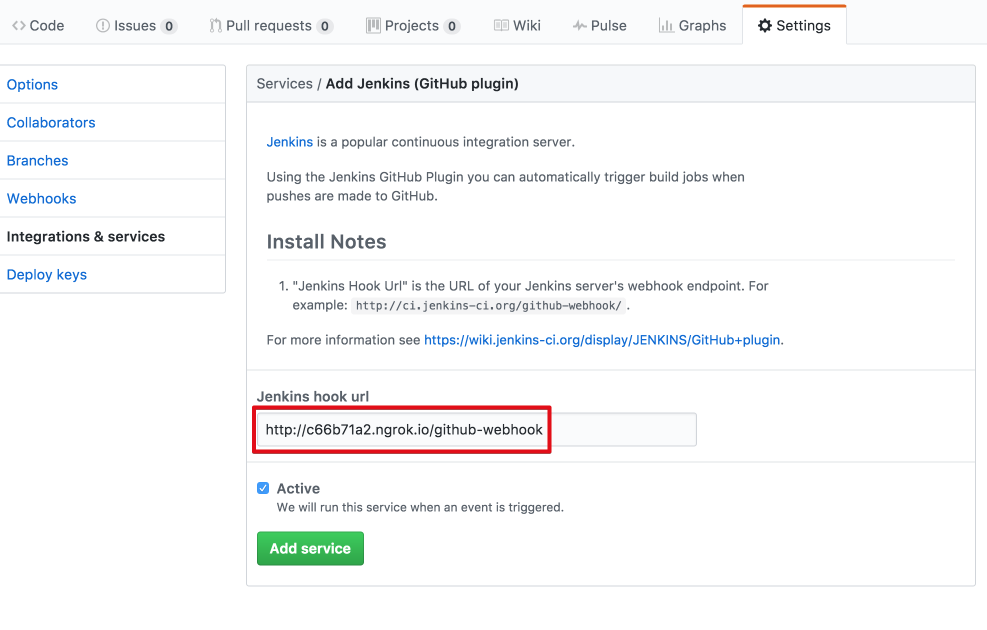
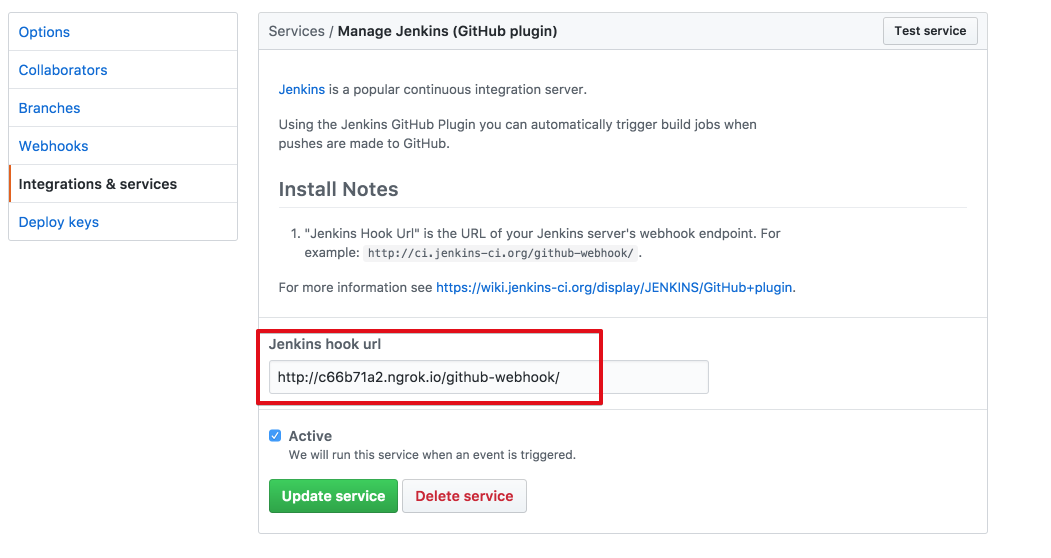
스프링부트 배포 시작

diff --git a/README.md b/README.md
@@ -85,25 +85,7 @@ docker ps -a
 (혹시나 젠킨스 컨테이너를 다시 시작해야 한다면 ```docker start jenkins```로 설치된 젠킨스 컨테이너를 실행 후, ```docker exec -it jenkins /bin/bash``` 를 입력하시면 됩니다.)  
 (```docker run```은 재설치를 합니다.)  
   
-젠킨스 메인페이지에서 ```Jenkins 관리``` -> ```시스템 설정```으로 이동합니다.  
-
-![젠킨스_시스템설정](./images/젠킨스_시스템설정.png)
-
-시스템 설정 페이지에서 아래로 내려와 보시면 ```Github```항목이 보이실텐데요, 거기서 ```Add Github Server```를 클릭합니다.  
-
-![젠킨스 깃헙서버추가](./images/젠킨스_깃헙서버추가.png)  
-
-바로 ```Credentials``` 우측에 있는 ```Add``` 버튼 클릭 -> ```Jenkins```를 클릭합니다.  
-
-![젠킨스 인증추가](./images/젠킨스_깃헙서버_인증.png)
-
-
-
-![젠킨스 키 등록](./images/젠킨스_키등록.png)
-
-
-
-젠킨스 페이지에서 ```새로운 Item```을 클릭합니다.  
+젠킨스 메인페이지에서 ```새로운 Item```을 클릭합니다.  
 
 ![새로운 아이템](./images/젠킨스_새아이템.png)
 
@@ -192,9 +174,10 @@ EXAMPLES에 나와있듯이, 현재 로컬에 열려있는 포트 중 외부에 
 
 ![깃허브 hook등록](./images/깃허브_웹훅등록.png)
 
-주의하셔야할 점은 본인의 **젠킨스 주소 뒤에** ```/github-webhook```을 추가해야하는 것입니다.  
+주의하셔야할 점은 본인의 **젠킨스 주소 뒤에** ```/github-webhook/```을 추가해야하는 것입니다.  
+(뒤에 ```/```를 잊으시면 작동이 안되시니 ```/```를 잊지마세요!)  
 깃허브가 푸시가 되면 해당 ```path```로 hook을 하기 때문입니다.   
-(젠킨스의 깃허브 플러그인으로 ```/github-webhook```는 이미 젠킨스에 포함되어 있습니다.)  
+(젠킨스의 깃허브 플러그인으로 ```/github-webhook/```는 이미 젠킨스에 포함되어 있습니다.)  
 
 자 이제 젠킨스와 Github의 연동이 끝났습니다!  
 그럼 확인을 해볼까요?  
@@ -220,11 +203,16 @@ EXAMPLES에 나와있듯이, 현재 로컬에 열려있는 포트 중 외부에 
 젠킨스의 빌드 기능은 확인되었으니, Github hook이 잘되는지도 확인하겠습니다.  
 본인의 프로젝트를 수정 후, ```git push```를 수행하겠습니다.  
 (현재 ```master``` 브랜치에 hook을 걸었기 때문에 다른 브랜치는 안됩니다.)  
+푸시를 하시고 빌드 히스토리를 클릭하시면!  
+짜잔!  
 
-```git push```를 수행하게 되면 ngrok에서 ```/
+![젠킨스 푸시 테스트](./images/젠킨스_푸시테스트.png)
 
-
-## Java
+Github로 인해서 빌드가 시작되었다는 메세지를 확인할 수 있습니다.  
+도커를 이용해서 젠킨스와 Github 연동을 진행했습니다.  
+다음은 스프링부트를 배포하는 시간을 가지겠습니다.  
+  
+## 스프링부트 배포
 
 ![java 이미지 받기](./images/java이미지.png)
 
